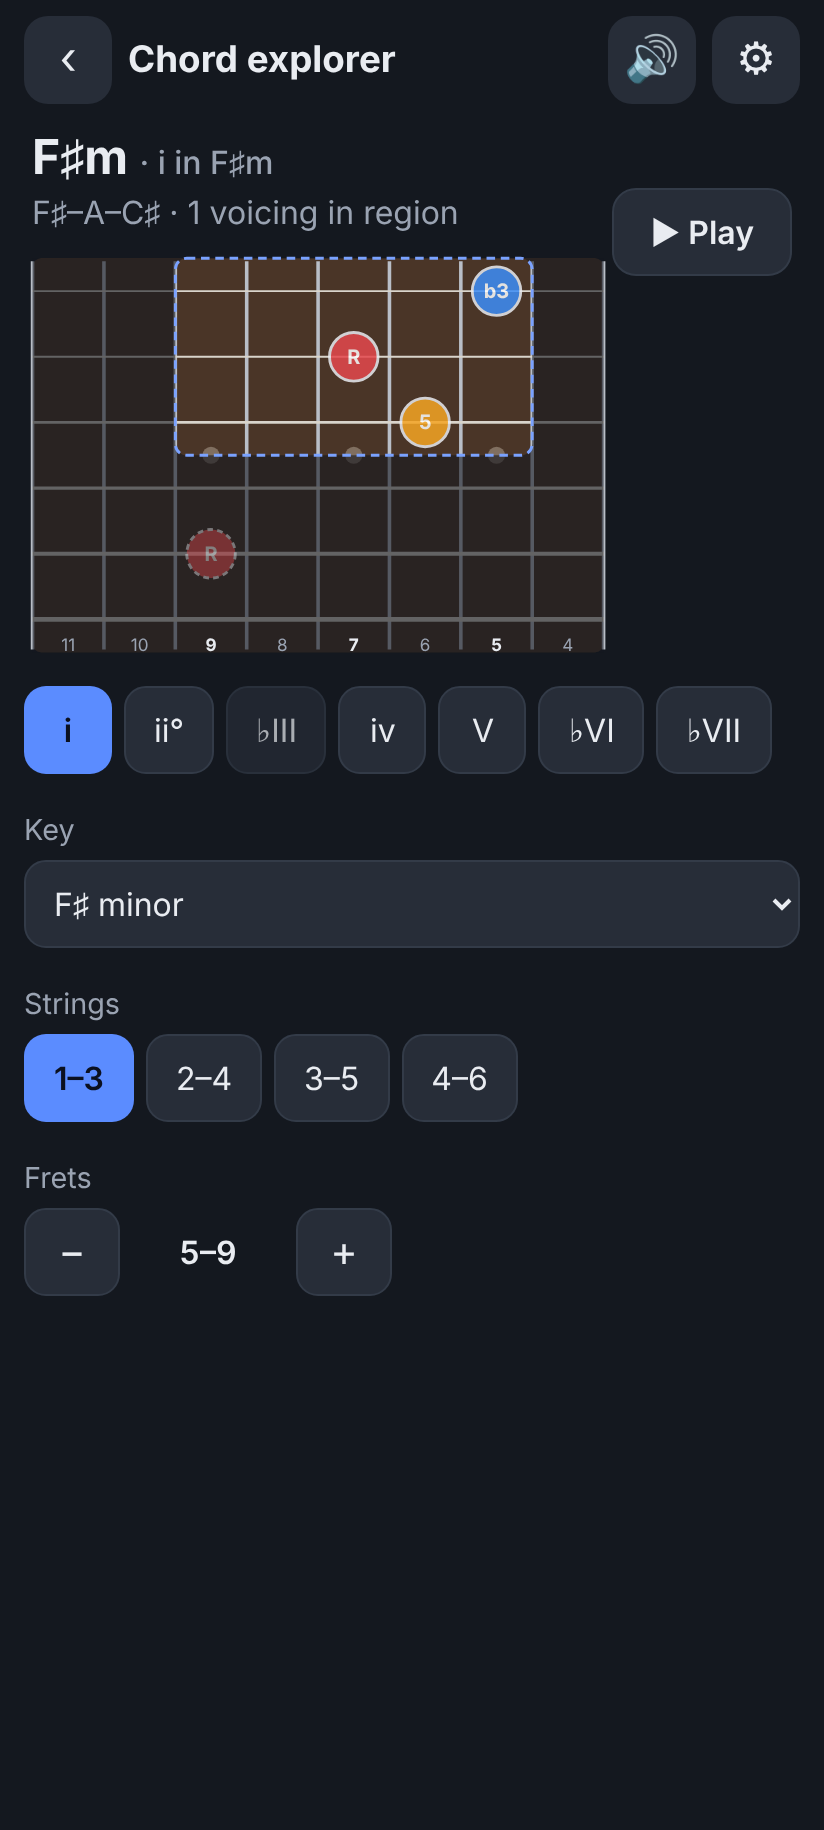
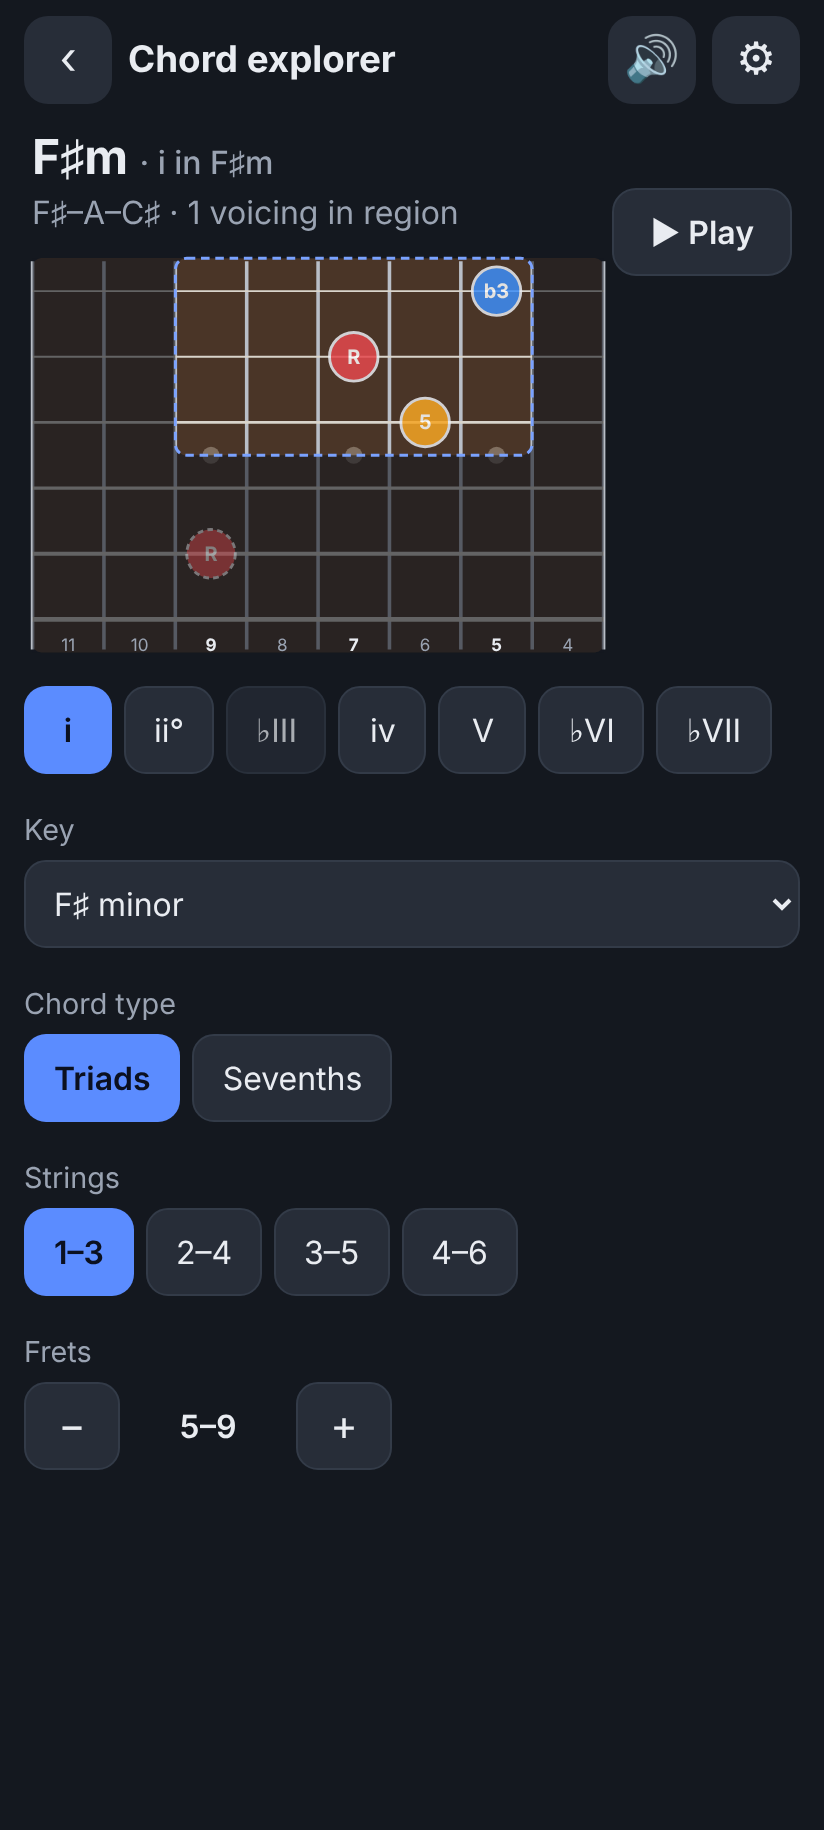
M14: sevenths — drop-2 voicings, shells, support in all modes
Claude-Session: https://claude.ai/code/session_011ir8KKaZ7qjeFtFQ81JPch

diff --git a/src/exercises/sevenths.test.ts b/src/exercises/sevenths.test.ts
@@ -1,0 +1,96 @@
+import { describe, expect, it } from 'vitest';
+import { DEFAULT_PREFERENCES, updatePreferences } from '../prefs/model';
+import { parseKeyName } from '../theory/keys';
+import { isSeventh } from '../theory/chords';
+import { defaultConfig, voicingOptions } from './config';
+import { generateFindQuestion } from './find/logic';
+import { generateTonicQuestion } from './tonic/logic';
+import { generateShapeQuestion } from './shape/logic';
+import { generateTonesQuestion, roleChoices } from './tones/logic';
+import { generateSwitchQuestion } from './switch/logic';
+import { generateProgressionQuestion } from './progression/logic';
+import { generateNameChordQuestion } from './namechord/logic';
+import { type ItemStats, triadMasteryForKey, updateStats } from '../progress/stats';
+import type { ModeId } from '../progress/types';
+
+function seeded(seed = 29) {
+  let s = seed;
+  return () => {
+    s = (s * 16807) % 2147483647;
+    return s / 2147483647;
+  };
+}
+
+describe('sevenths in every mode', () => {
+  for (const shells of [false, true]) {
+    const p = updatePreferences(DEFAULT_PREFERENCES, (d) => {
+      d.sevenths.enabled = true;
+      d.sevenths.shells = shells;
+    });
+    const o = () => ({ harmony: p.harmony, voicing: voicingOptions(p), rand: seeded() });
+    const cfg = (m: ModeId) => defaultConfig(m, parseKeyName('Am')!, p);
+    it(`generates seventh-chord questions (shells: ${shells})`, () => {
+      expect(cfg('find').stringSets).toEqual(
+        shells ? ['1-4', '2-5', '1-3', '2-4'] : ['1-4', '2-5'],
+      );
+      const rand = seeded();
+      for (let i = 0; i < 15; i++) {
+        const opt = { ...o(), rand };
+        const f = generateFindQuestion(cfg('find'), opt)!;
+        expect(isSeventh(f.chord.quality)).toBe(true);
+        for (const v of f.valid) expect(v.notes.length === 4 || v.shell).toBe(true);
+        expect(isSeventh(generateTonicQuestion(cfg('fromTonic'), opt)!.target.quality)).toBe(true);
+        expect(isSeventh(generateShapeQuestion(cfg('nextShape'), opt)!.chord.quality)).toBe(true);
+        const t = generateTonesQuestion(cfg('nameTones'), opt)!;
+        expect(roleChoices(t.chord)).toContain('b7');
+        const sw = generateSwitchQuestion(cfg('qualitySwitch'), {
+          ...opt,
+          extensions: { minDim: false, majAug: false, dom7: false },
+        })!;
+        expect(sw.def.family).toBe('sevenths');
+        expect(
+          generateProgressionQuestion(cfg('progression'), opt)!.chords.every((c) =>
+            isSeventh(c.quality),
+          ),
+        ).toBe(true);
+        expect(
+          generateNameChordQuestion(cfg('nameChord'), {
+            ...opt,
+            symbol: { glyphs: true, dimStyle: 'symbol' },
+            numeral: { glyphs: true, dimStyle: 'symbol' },
+          })!.answer,
+        ).toMatch(/7/);
+      }
+    });
+  }
+});
+
+describe('sevenths suggestion', () => {
+  it('triad mastery per key', () => {
+    const stats: Record<string, ItemStats> = {};
+    const t = { accuracy: 0.9, triadMs: 3000, seventhMs: 5000 };
+    for (const degree of [0, 3, 4]) {
+      let s: ItemStats | undefined;
+      for (let i = 0; i < 10; i++) {
+        s = updateStats(s, {
+          item: {
+            mode: 'find',
+            key: 'Am',
+            degree,
+            quality: 'min',
+            stringSet: '1-3',
+            inversion: '*',
+            anchor: null,
+          },
+          correct: true,
+          timeMs: 1000,
+          at: i,
+          sevenths: false,
+        });
+      }
+      stats[s!.key] = s!;
+    }
+    expect(triadMasteryForKey(stats, 'Am', [0, 3, 4, 1, 5, 6], t)).toBe(0.5);
+    expect(triadMasteryForKey(stats, 'C', [0, 3, 4, 1, 5], t)).toBe(0);
+  });
+});

diff --git a/src/ui/screens/Explore.tsx b/src/ui/screens/Explore.tsx
@@ -10,7 +10,8 @@ import {
   diatonicChord,
 } from '../../theory/chords';
 import type { StringNum } from '../../fretboard/tuning';
-import { type StringSetId, TRIAD_STRING_SETS } from '../../fretboard/regions';
+import { SEVENTH_STRING_SETS, type StringSetId, TRIAD_STRING_SETS } from '../../fretboard/regions';
+import { Segmented } from '../controls';
 import { voicingsInRegion } from '../../fretboard/voicings';
 import { pairAnchors } from '../../fretboard/anchors';
 import { Fretboard, type Marker } from '../Fretboard';
@@ -28,17 +29,23 @@ export function Explore() {
   const [degree, setDegree] = useState<DegreeIndex>(0);
   const [set, setSet] = useState<StringSetId>(p.fretboard.stringSets[0] ?? '1-3');
   const [win, setWin] = useState(p.fretboard.window);
+  const [sevenths, setSevenths] = useState(p.sevenths.enabled);
   const [taps, setTaps] = useState<{ string: StringNum; fret: number }[]>([]);
   const vw = useViewportWidth();
   const maxFret = p.fretboard.fretRange;
 
-  const chord = useMemo(() => diatonicChord(k, degree, false, p.harmony), [k, degree, p.harmony]);
+  const chord = useMemo(
+    () => diatonicChord(k, degree, sevenths, p.harmony),
+    [k, degree, sevenths, p.harmony],
+  );
   const region = { stringSet: set, window: win };
   const voicings = voicingsInRegion(chord, region, {
     maxFret,
     maxSpan: p.fretboard.maxSpan,
     allowOutside: p.fretboard.allowOutside,
+    shells: true,
   });
+  const sets = sevenths ? [...SEVENTH_STRING_SETS, ...TRIAD_STRING_SETS] : TRIAD_STRING_SETS;
   const markers: Marker[] = [];
   for (const v of voicings) for (const n of v.notes) markers.push(noteMarker(n, 'shown', p));
   if (p.fretboard.anchor !== 'off') {
@@ -101,7 +108,7 @@ export function Explore() {
       </div>
       <div class="chips" role="group" aria-label="Degree">
         {ordered.map((d) => {
-          const c = diatonicChord(k, d, false, p.harmony);
+          const c = diatonicChord(k, d, sevenths, p.harmony);
           return (
             <button
               type="button"
@@ -117,7 +124,20 @@ export function Explore() {
       </div>
       <div class="controls">
         <KeyPicker value={k} prefs={p} onChange={setKey} />
-        <StringSetPicker value={set} sets={TRIAD_STRING_SETS} onChange={setSet} />
+        <Segmented
+          label="Chord type"
+          value={sevenths ? 'sevenths' : 'triads'}
+          options={[
+            { value: 'triads', label: 'Triads' },
+            { value: 'sevenths', label: 'Sevenths' },
+          ]}
+          onChange={(v) => {
+            const on = v === 'sevenths';
+            setSevenths(on);
+            setSet(on ? '2-5' : '1-3');
+          }}
+        />
+        <StringSetPicker value={set} sets={sets} onChange={setSet} />
         <WindowPicker value={win} maxFret={maxFret} onChange={setWin} />
       </div>
     </div>

diff --git a/src/exercises/Setup.tsx b/src/exercises/Setup.tsx
@@ -11,6 +11,12 @@ import { KeyPicker, WindowPicker } from '../ui/pickers';
 import { Segmented } from '../ui/controls';
 import { type PracticeConfig, stringSetsFor } from './config';
 import { MODES } from './modes';
+import { stats } from '../progress/store';
+import { triadMasteryForKey } from '../progress/stats';
+import { formatKey, keyToAscii } from '../theory/keys';
+
+/** Suggest sevenths when this share of the key's core triads is mastered. */
+const SEVENTHS_SUGGESTION = 0.8;
 
 export function Setup(props: {
   config: PracticeConfig;
@@ -34,6 +40,13 @@ export function Setup(props: {
     set({ stringSets: on ? c.stringSets.filter((x) => x !== s) : [...c.stringSets, s] });
   };
   const sl = p.practice.sessionLength;
+  const triadMastery = c.sevenths
+    ? 0
+    : triadMasteryForKey(stats.value, keyToAscii(c.key), CORE_DEGREES[c.key.mode], {
+        accuracy: p.practice.masteryAccuracy,
+        triadMs: p.practice.masteryTimeTriadMs,
+        seventhMs: p.practice.masteryTimeSeventhMs,
+      });
 
   return (
     <div class="setup">
@@ -59,6 +72,21 @@ export function Setup(props: {
           return Extras ? <Extras config={c} onChange={props.onChange} /> : null;
         })()}
       </section>
+      {triadMastery >= SEVENTHS_SUGGESTION && (
+        <div class="suggest" role="note">
+          <span>
+            You've mastered the core triads in {formatKey(c.key, p.spelling.glyphs)} — ready for
+            sevenths?
+          </span>
+          <button
+            type="button"
+            class="btn"
+            onClick={() => set({ sevenths: true, stringSets: stringSetsFor(p, true) })}
+          >
+            Try sevenths
+          </button>
+        </div>
+      )}
       <section class="card">
         <h2>Key & chords</h2>
         <KeyPicker

diff --git a/src/fretboard/voicings.ts b/src/fretboard/voicings.ts
@@ -38,6 +38,24 @@ export interface VoicingOptions {
   maxSpan: number;
   /** Seventh chords on 3-string sets: build R–3–7 shells (omit the 5th). */
   shells?: boolean;
+  /**
+   * Four-note chords on 4-string sets: only drop-2 voicings (default true), with one
+   * extra fret of span allowed (drop-2 shapes such as root-position maj7 need 5 frets).
+   */
+  drop2?: boolean;
+}
+
+/**
+ * Drop-2: take a close-position voicing and drop its second-highest note an octave.
+ * Equivalently, raising the lowest note an octave gives a close voicing (span < 12)
+ * in which that note is second from the top.
+ */
+export function isDrop2(midis: readonly number[]): boolean {
+  if (midis.length !== 4) return false;
+  const p = [...midis].sort((a, b) => a - b);
+  if (p[3] - p[0] < 12) return false; // already close
+  const raised = p[0] + 12;
+  return raised > p[2] && raised < p[3] && p[3] - p[1] < 12;
 }
 
 export const DEFAULT_VOICING_OPTIONS: VoicingOptions = { maxFret: 15, maxSpan: 4 };
@@ -98,7 +116,10 @@ export function enumerateVoicings(
       const frets = pick.map((p) => p.f);
       const lo = Math.min(...frets);
       const hi = Math.max(...frets);
-      if (hi - lo + 1 > opts.maxSpan) return;
+      const fourNote = required.length === 4;
+      const drop2 = fourNote && opts.drop2 !== false;
+      if (hi - lo + 1 > opts.maxSpan + (drop2 ? 1 : 0)) return;
+      if (drop2 && !isDrop2(pick.map((p) => midiAt(p.s, p.f)))) return;
       const notes = pick.map((p) => ({ ...fretted(p.s, p.f), tone: p.t, role: p.t.role }));
       out.push({
         stringSet,

diff --git a/tests/e2e/m14-sevenths.spec.ts b/tests/e2e/m14-sevenths.spec.ts
@@ -1,0 +1,31 @@
+import { expect, test } from '@playwright/test';
+import { shot } from './helpers';
+
+test('find a drop-2 V7 in C', async ({ page }) => {
+  await page.goto('./#/practice');
+  await page.getByLabel('Key').selectOption('C');
+  await page.getByRole('radio', { name: 'Sevenths' }).click();
+  for (const n of ['Imaj7', 'IVmaj7', 'ii7', 'vi7']) {
+    await page
+      .getByRole('group', { name: 'Chords' })
+      .getByRole('button', { name: n, exact: true })
+      .click();
+  }
+  await page.getByRole('group', { name: 'Strings' }).getByRole('button', { name: '1–4' }).click(); // only 2–5
+  await page.getByRole('button', { name: /^Start/ }).click();
+  await expect(page.locator('.prompt-main')).toHaveText('C · V7');
+  await expect(page.locator('.prompt-sub')).toHaveText('strings 2–5 · frets 5–9');
+  await page.getByRole('button', { name: 'Show answer' }).click();
+  await expect(page.getByRole('status')).toContainText('G7 (G–B–D–F)');
+  const reveal = page.locator('[data-kind=reveal]');
+  expect(await reveal.count()).toBeGreaterThanOrEqual(4);
+  await shot(page, 'm14-find-v7');
+});
+
+test('explorer shows seventh voicings with 7th roles', async ({ page }) => {
+  await page.goto('./#/explore');
+  await page.getByRole('radio', { name: 'Sevenths' }).click();
+  await expect(page.locator('.prompt-main')).toContainText('F♯m7');
+  await expect(page.locator('.fretboard')).toContainText('b7');
+  await shot(page, 'm14-explore');
+});

diff --git a/src/fretboard/fretboard.test.ts b/src/fretboard/fretboard.test.ts
@@ -6,6 +6,7 @@ import {
   adjacentShape,
   enumerateVoicings,
   fitsWindow,
+  isDrop2,
   fretsForPitchClass,
   fretted,
   matchVoicing,
@@ -87,6 +88,26 @@ describe('voicing enumeration', () => {
       expect(v.notes.some((n) => n.role === '5')).toBe(false);
     }
     expect(enumerateVoicings(fsm, '1-4', opts)).toEqual([]);
+  });
+  it('drop-2: four inversions per octave on every 4-string set, for every seventh quality', () => {
+    for (const q of ['maj7', '7', 'm7', 'm7b5'] as const) {
+      const c = buildChord(note('C'), q);
+      for (const set of ['1-4', '2-5', '3-6'] as const) {
+        const vs = enumerateVoicings(c, set, { maxFret: 27, maxSpan: 4 }).filter(
+          (v) => v.position < 12,
+        );
+        expect(vs.map((v) => v.inversion).sort()).toEqual(['first', 'root', 'second', 'third']);
+        for (const v of vs) expect(isDrop2(v.notes.map((n) => n.midi))).toBe(true);
+      }
+    }
+  });
+  it('isDrop2', () => {
+    // Cmaj7 drop-2 on D-G-B-E: C(D10) G(G12) B(B12) E(E12)
+    expect(isDrop2([60, 67, 71, 76])).toBe(true);
+    // close position C E G B
+    expect(isDrop2([60, 64, 67, 71])).toBe(false);
+    // drop-3: C B E G
+    expect(isDrop2([48, 59, 64, 67])).toBe(false);
   });
   it('fitsWindow with one note outside', () => {
     const v = enumerateVoicings(fsm, '1-3', opts).find((x) => voicingId(x) === '3:6,2:7,1:5')!;

diff --git a/src/progress/stats.ts b/src/progress/stats.ts
@@ -198,3 +198,22 @@ export function weakest(stats: Record<string, ItemStats>, n = 10, triadMs = 3000
     .slice(0, n)
     .map((x) => x.s);
 }
+
+/**
+ * Share of the key's core degrees with at least one mastered triad item (any mode or
+ * string set). Used to suggest moving on to sevenths (SPEC §5).
+ */
+export function triadMasteryForKey(
+  stats: Record<string, ItemStats>,
+  key: string,
+  coreDegrees: readonly number[],
+  t: MasteryThresholds,
+): number {
+  const mastered = new Set<number>();
+  for (const s of Object.values(stats)) {
+    const item = parseItemKey(s.key);
+    if (item.key !== key || isSeventhItem(item)) continue;
+    if (isMastered(s, t, false)) mastered.add(item.degree);
+  }
+  return coreDegrees.filter((d) => mastered.has(d)).length / coreDegrees.length;
+}

diff --git a/src/ui/theme.css b/src/ui/theme.css
@@ -872,3 +872,16 @@ input {
 .weak + .btn {
   margin-top: 10px;
 }
+.suggest {
+  display: flex;
+  align-items: center;
+  gap: 12px;
+  padding: 12px 14px;
+  margin-bottom: 12px;
+  border-radius: var(--radius);
+  background: color-mix(in srgb, var(--accent) 14%, var(--surface));
+  border: 1px solid var(--accent);
+}
+.suggest span {
+  flex: 1;
+}

diff --git a/docs/DECISIONS.md b/docs/DECISIONS.md
@@ -144,3 +144,10 @@ Format: **date — decision.** Why. Alternatives. How to change it (preference n
   (inversion etc.). Progression-walk items are drilled with Find the chord. If an item
   has no question in the default window, up to 5 random windows are tried, then the item
   is skipped.
+- **2026-11-20 — Sevenths:** 4-string sets (1–4, 2–5, 3–6) use drop-2 voicings only (the
+  SPEC's choice; close/drop-3 shapes are filtered out) with one extra fret of span
+  (default max span 4 → 5 for drop-2, needed e.g. for root-position maj7 on 2–5); every
+  set then has exactly 4 inversions per octave. With `sevenths.shells`, 3-string sets
+  give R–3–7 shells. All seven modes accept sevenths; the quality switch uses maj7 ↔ 7
+  and m7 ↔ m7b5. The setup screen suggests sevenths once ≥ 80 % of the key's core degrees
+  have a mastered triad item. The Chord explorer gained a Triads/Sevenths switch.

diff --git a/docs/CHANGELOG.md b/docs/CHANGELOG.md
@@ -15,3 +15,4 @@
 - M11 Mode 5 Progression walk: 10 built-in major/minor progressions, smooth-voicing badges, playback, tempo mode.
 - M12 Mode 6 Name the chord: degree → chord and chord → degree multiple choice with enharmonic and quality distractors.
 - M13 Spaced repetition & weak spots: SRS-weighted question selection with ~20 % fresh items, review of due items, "Drill these" for the weakest items.
+- M14 Sevenths: drop-2 voicings on 4-string sets, optional R–3–7 shells, sevenths in every mode, sevenths suggestion after triad mastery, explorer support.
